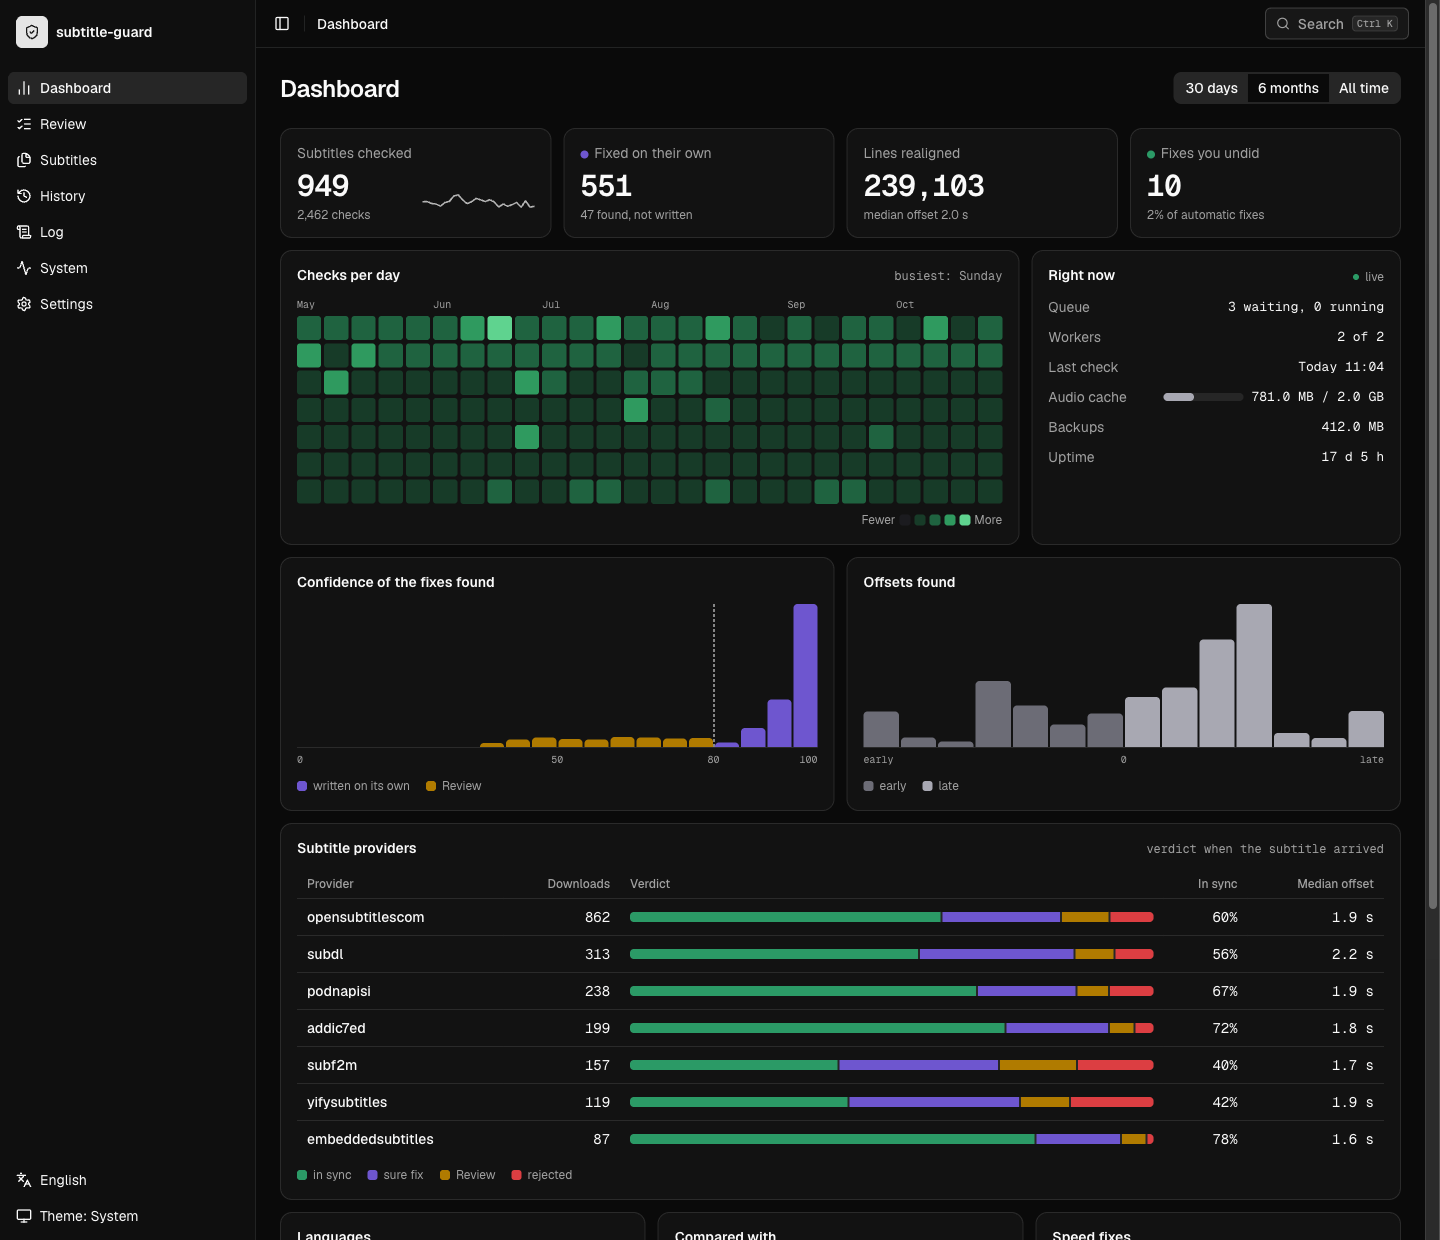
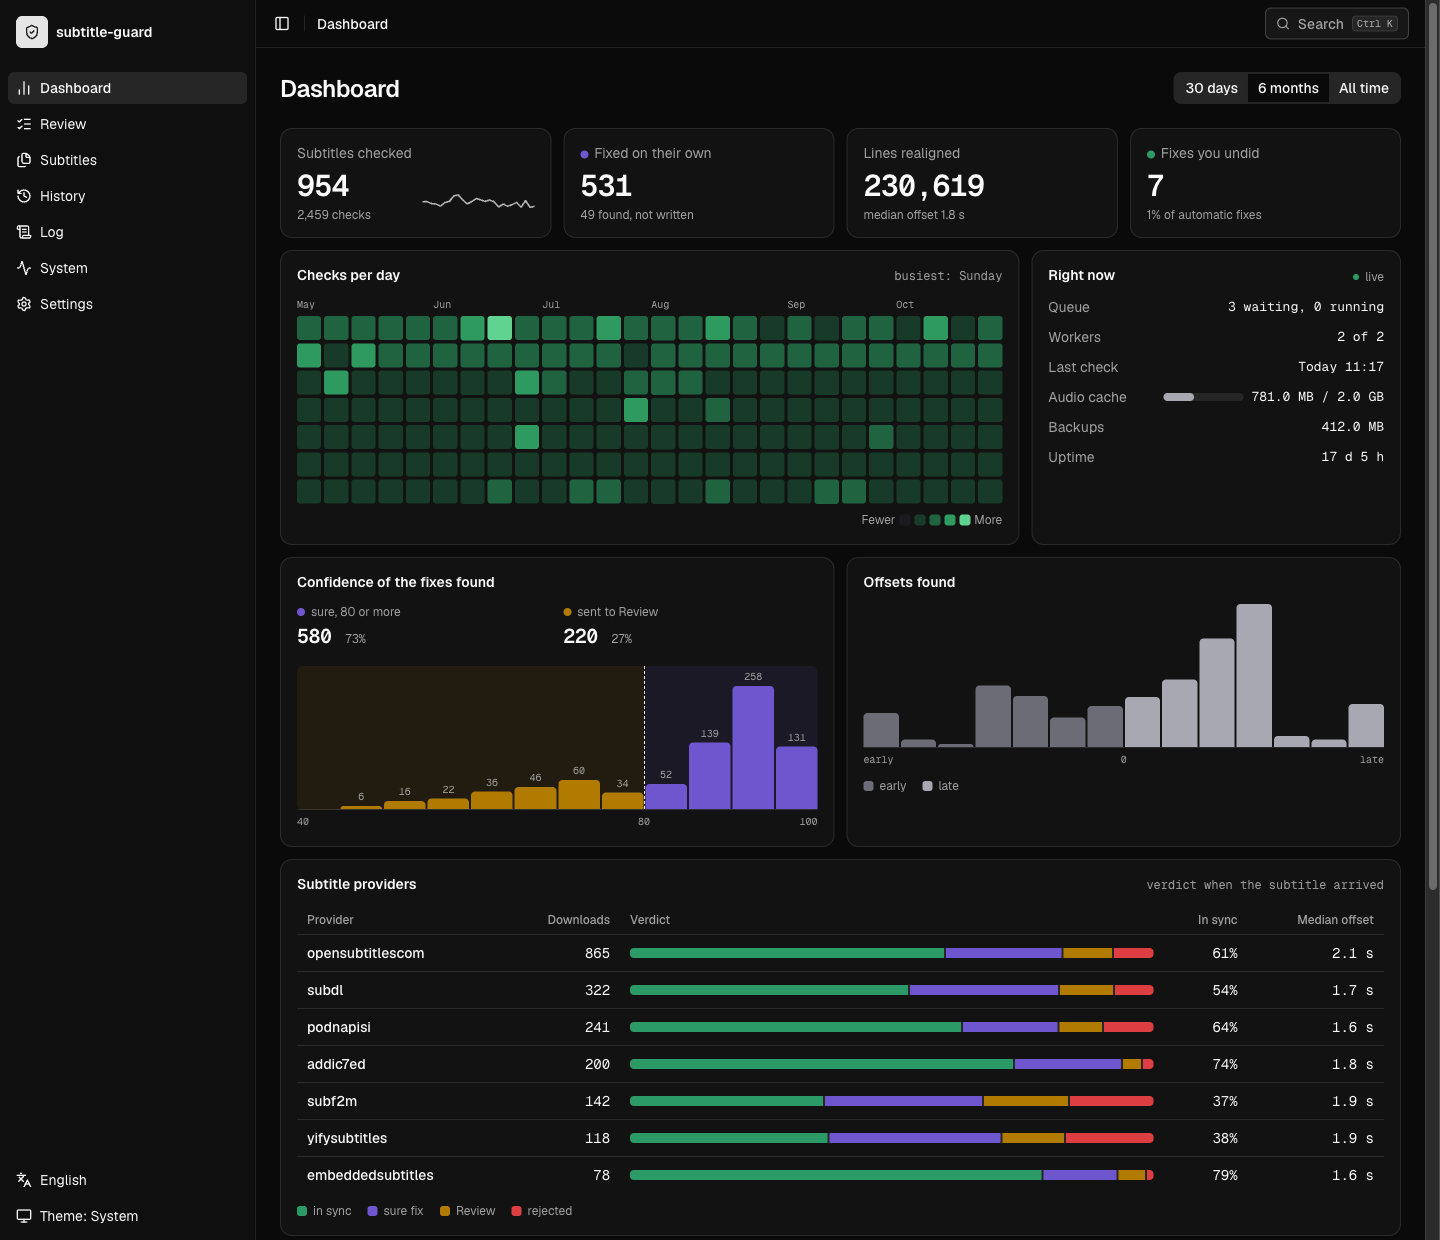
Show the confidence chart as sure versus sent to Review
The chart spent half its width on scores no fix gets and let the top bin
dwarf the rest, without saying what mattered. It now leads with how many
fixes were sure (80 or more) and how many went to Review, starts its
axis near the first fixes, tints the two sides of the threshold, and
labels each bar with its count. The README screenshot shows it.

diff --git a/frontend/src/pages/dashboard.tsx b/frontend/src/pages/dashboard.tsx
@@ -113,12 +113,7 @@ function Board({ stats, reportMode, t }: { stats: Stats; reportMode: boolean; t:
       <section className="grid gap-3 lg:grid-cols-2">
         <div className={CARD}>
           <CardHead title={t("Confidence of the fixes found")} />
-          <Bars rule={AUTOMATIC_FROM / 100} bars={stats.confidence.map((count, index) => ({
-            count, tone: index * CONFIDENCE_STEP >= AUTOMATIC_FROM ? "bg-guard" : "bg-to-review",
-            tip: t("confidence {low} to {high}: {count}", { low: index * CONFIDENCE_STEP, high: (index + 1) * CONFIDENCE_STEP, count: fixes(t, count) }),
-          }))} />
-          <Axis labels={["0", "50", "80", "100"]} positions={[0, 50, 80, 100]} />
-          <Key items={[{ label: t("written on its own"), tone: "bg-guard" }, { label: t("Review"), tone: "bg-to-review" }]} />
+          <ConfidenceChart bins={stats.confidence} number={number} t={t} />
         </div>
         <div className={CARD}>
           <CardHead title={t("Offsets found")} />
@@ -254,16 +249,60 @@ function Facts({ rows }: { rows: [string, ReactNode][] }) {
   )
 }
 
-function Bars({ bars, rule, height = "h-36" }: { bars: { count: number; tone: string; tip: string }[]; rule?: number; height?: string }) {
+function Bars({ bars, rule, height = "h-36", counted }: { bars: { count: number; tone: string; tip: string }[]; rule?: number; height?: string; counted?: boolean }) {
   const top = Math.max(...bars.map((bar) => bar.count), 1)
+  const reach = counted ? 86 : 100
   return (
     <div className={cn("relative flex items-end gap-[2px] border-b", height)} data-chart>
       {bars.map((bar, index) => (
-        <div key={bar.tip} className={cn("flex h-full flex-1 items-end", FOCUS_RING)} tabIndex={index === 0 ? 0 : -1} role="img" aria-label={bar.tip}>
-          <i className={cn("block w-full rounded-t-[4px]", bar.tone)} style={{ height: bar.count ? `max(2px, ${(bar.count / top) * 100}%)` : 0 }} />
+        <div key={bar.tip} className={cn("relative flex h-full flex-1 items-end", FOCUS_RING)} tabIndex={index === 0 ? 0 : -1} role="img" aria-label={bar.tip}>
+          <i className={cn("block w-full rounded-t-[4px]", bar.tone)} style={{ height: bar.count ? `max(2px, ${(bar.count / top) * reach}%)` : 0 }} />
+          {counted && bar.count > 0 && (
+            <span aria-hidden="true" className="absolute inset-x-0 text-center font-mono text-[10px] text-muted-foreground tabular-nums"
+              style={{ bottom: `calc(${(bar.count / top) * reach}% + 2px)` }}>{bar.count}</span>
+          )}
         </div>
       ))}
       {rule !== undefined && <span aria-hidden="true" className="pointer-events-none absolute inset-y-0 border-l border-dashed border-foreground" style={{ left: `${rule * 100}%` }} />}
+    </div>
+  )
+}
+
+function ConfidenceChart({ bins, number, t }: { bins: number[]; number: (value: number) => string; t: Translate }) {
+  const threshold = AUTOMATIC_FROM / CONFIDENCE_STEP
+  const firstUsed = bins.findIndex((count) => count > 0)
+  const start = firstUsed < 0 ? 0 : Math.min(Math.floor(firstUsed / 2) * 2, threshold - 4)
+  const shown = bins.slice(start)
+  const sure = bins.slice(threshold).reduce((sum, count) => sum + count, 0)
+  const unsure = bins.slice(0, threshold).reduce((sum, count) => sum + count, 0)
+  const split = ((threshold - start) / shown.length) * 100
+  const surePercent = sure + unsure ? Math.round((sure / (sure + unsure)) * 100) : 0
+  return (
+    <>
+      <div className="mb-4 grid grid-cols-2 gap-3">
+        <Split tone="bg-guard" label={t("sure, 80 or more")} value={number(sure)} share={`${surePercent}%`} />
+        <Split tone="bg-to-review" label={t("sent to Review")} value={number(unsure)} share={`${sure + unsure ? 100 - surePercent : 0}%`} />
+      </div>
+      <div className="relative">
+        <div aria-hidden="true" className="pointer-events-none absolute inset-0 flex">
+          <div className="h-full rounded-l-md bg-to-review/10" style={{ width: `${split}%` }} />
+          <div className="h-full flex-1 rounded-r-md bg-guard/10" />
+        </div>
+        <Bars counted rule={split / 100} bars={shown.map((count, offset) => {
+          const low = (start + offset) * CONFIDENCE_STEP
+          return { count, tone: low >= AUTOMATIC_FROM ? "bg-guard" : "bg-to-review", tip: t("confidence {low} to {high}: {count}", { low, high: low + CONFIDENCE_STEP, count: fixes(t, count) }) }
+        })} />
+      </div>
+      <Axis labels={[String(start * CONFIDENCE_STEP), String(AUTOMATIC_FROM), "100"]} positions={[0, split, 100]} />
+    </>
+  )
+}
+
+function Split({ tone, label, value, share }: { tone: string; label: string; value: string; share: string }) {
+  return (
+    <div className="flex min-w-0 flex-col gap-0.5">
+      <span className="flex items-center gap-1.5 text-xs text-muted-foreground"><i className={cn("size-2 flex-none rounded-full", tone)} />{label}</span>
+      <span className="font-mono text-xl font-semibold tracking-tight tabular-nums">{value}{" "}<span className="ml-0.5 text-xs font-normal text-muted-foreground">{share}</span></span>
     </div>
   )
 }
